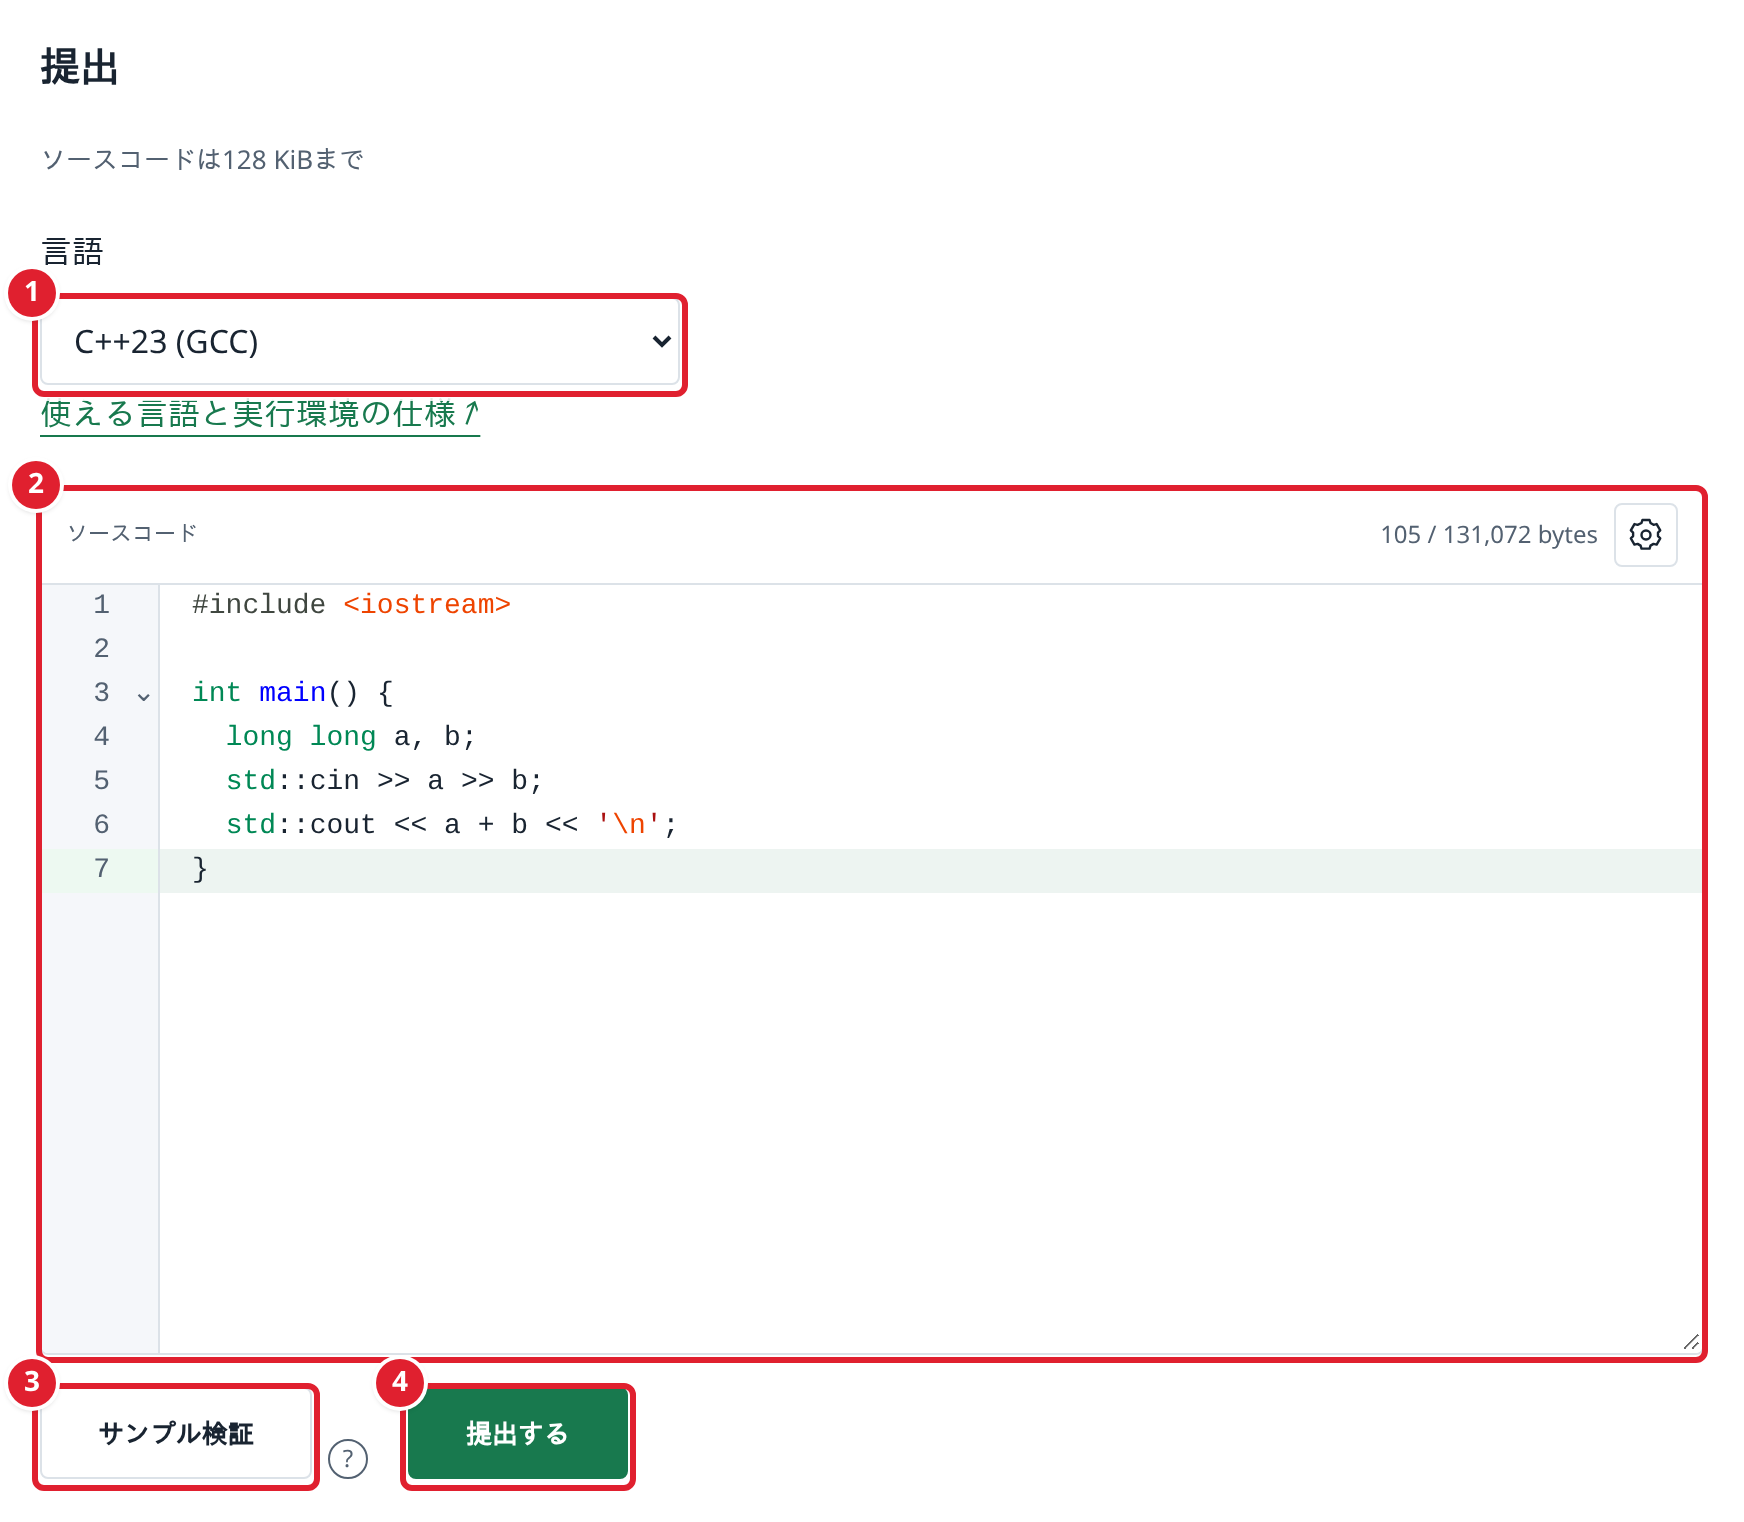
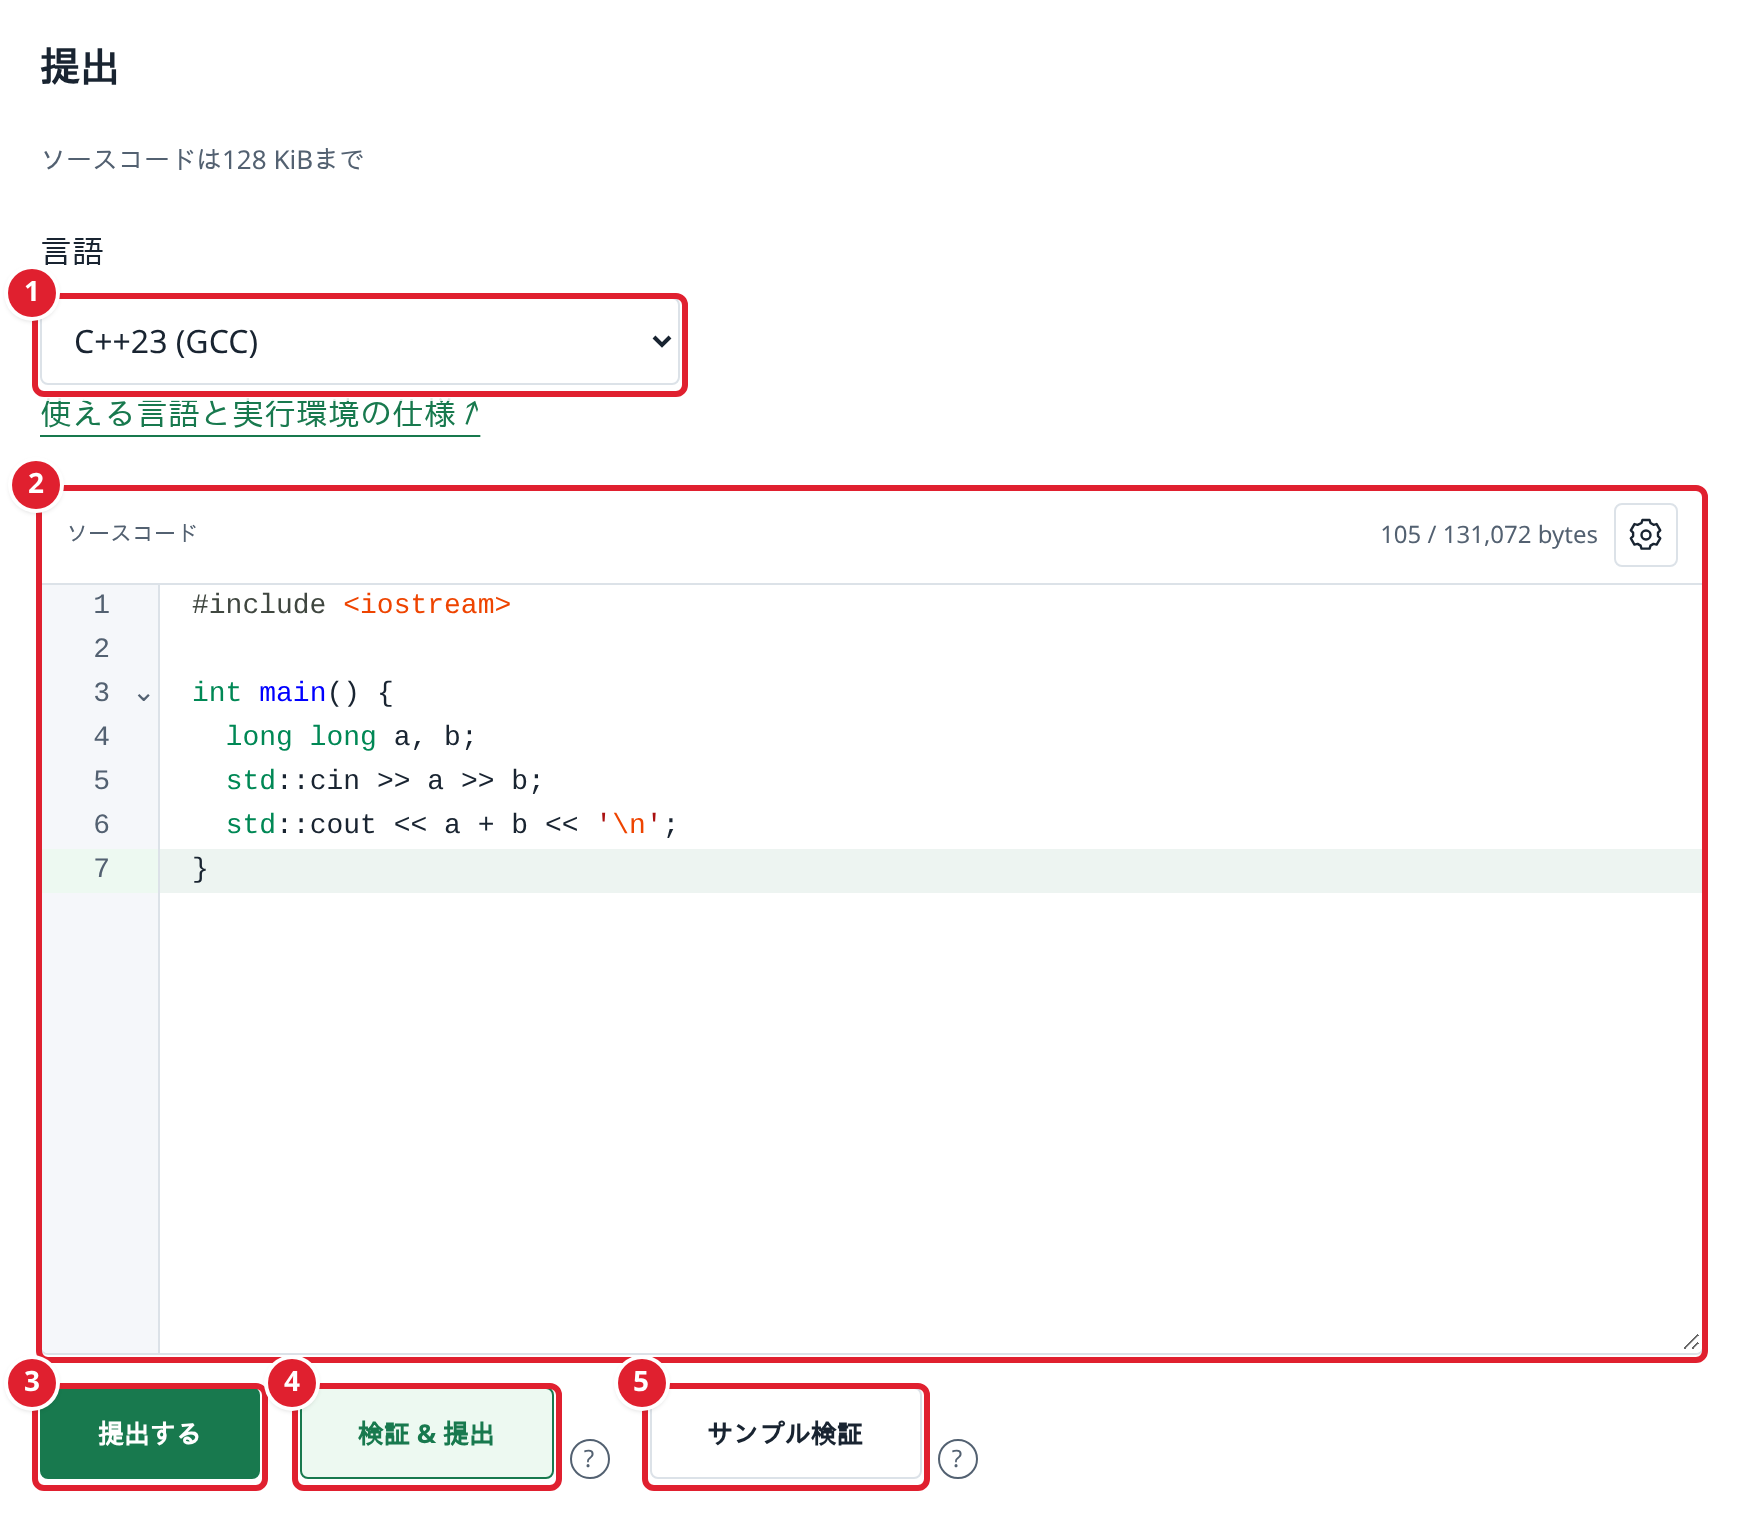
feat: サンプル検証に通ったときだけ続けて提出する「検証 & 提出」ボタンを足す
提出欄のボタンを「提出する」「検証 & 提出」「サンプル検証」の順に並べ、
「検証 & 提出」には説明の「?」を付ける。サンプルケースがない問題では、
検証せずに提出する。

Changed region(s): [[0.0, 0.8955, 0.5573, 0.9882]]

diff --git a/web/app/components/SubmissionForm.vue b/web/app/components/SubmissionForm.vue
@@ -8,6 +8,7 @@ import { hasSource } from '~/utils/has-source'
 const props = defineProps<{ problemId: string, hasSamples: boolean, contestId?: string, team?: boolean, beforeSubmit?: () => Promise<boolean>, disabled?: boolean }>()
 const { user } = useAccount()
 const sampleHelpId = useId()
+const sampleSubmitHelpId = useId()
 const source = ref('')
 // The largest source the API accepts, in UTF-8 bytes.
 const sourceLimit = 131072
@@ -29,19 +30,29 @@ watch(available, items => {
   if (runtime.value && !items.some(item => item.id === runtime.value)) runtime.value = items[0]?.id ?? ''
 }, { immediate: true })
 const sending = ref(false)
+// 'sample-submit' runs the sample validation and submits only when every sample passes.
+// A problem without samples has nothing to validate, so it submits at once.
+type Action = 'submit' | 'sample' | 'sample-submit'
+const action = ref<Action>('submit')
+// The request in flight is a sample validation, not a submission.
 const runningEasyTest = ref(false)
+const blocked = computed(() => props.disabled || sending.value || !hasSource(runtime.value, source.value) || !runtime.value || !available.value.length)
 const message = ref('')
 const easyResult = ref<Submission | null>(null)
 let disposed = false
 onBeforeUnmount(() => { disposed = true })
 watch([source, runtime, () => props.problemId], () => { easyResult.value = null })
-async function submit(easyTest = false) {
-  if ((easyTest && !props.hasSamples) || props.disabled || sending.value || !available.value.some(item => item.id === runtime.value)) return
+function post(easyTest: boolean) {
+  return $fetch<Submission>('/api/my/submissions', { method: 'POST', body: { contestId: props.contestId, problemId: props.problemId, runtime: runtime.value, source: source.value, easyTest: easyTest || undefined } })
+}
+async function submit(requested: Action = 'submit') {
+  if ((requested === 'sample' && !props.hasSamples) || props.disabled || sending.value || !available.value.some(item => item.id === runtime.value)) return
   if (!hasSource(runtime.value, source.value) || new TextEncoder().encode(source.value).length > sourceLimit) {
     message.value = `ソースコードを1〜${sourceLimit.toLocaleString('en-US')}バイトで入力してください。`
     return
   }
-  runningEasyTest.value = easyTest
+  action.value = requested
+  runningEasyTest.value = requested === 'sample' || (requested === 'sample-submit' && props.hasSamples)
   sending.value = true
   message.value = ''
   easyResult.value = null
@@ -50,8 +61,8 @@ async function submit(easyTest = false) {
       message.value = '下書きを保存できませんでした。保存内容を確認してください。'
       return
     }
-    let result = await $fetch<Submission>('/api/my/submissions', { method: 'POST', body: { contestId: props.contestId, problemId: props.problemId, runtime: runtime.value, source: source.value, easyTest: easyTest || undefined } })
-    if (easyTest) {
+    if (runningEasyTest.value) {
+      let result = await post(true)
       easyResult.value = result
       const deadline = Date.now() + 60 * 60 * 1000
       while (!disposed && result.status !== 'DONE') {
@@ -62,12 +73,19 @@ async function submit(easyTest = false) {
         if (disposed) return
         easyResult.value = result
       }
-      return
+      if (disposed || requested === 'sample') return
+      if (result.result?.verdict !== 'AC') {
+        message.value = 'サンプル検証に通らなかったため、提出していません。'
+        return
+      }
+      runningEasyTest.value = false
     }
+    const result = await post(false)
     await navigateTo(props.contestId ? `/contests/${shortId(props.contestId)}/my-submissions/${shortId(result.id)}${props.team ? '?from=team' : ''}` : `/my/submissions/${shortId(result.id)}`)
   } catch (error) {
     const failure = error as { statusCode?: number, data?: { data?: { code?: string, retryAfter?: number } } }
     const code = failure.data?.data?.code
+    const easyTest = runningEasyTest.value
     if (code === 'judge_maintenance') { message.value = judgeMaintenanceMessage; await refreshCatalog() }
     else if (failure.statusCode === 401) message.value = '提出するにはログインしてください。入力したコードはこの画面に残っています。'
     else if (code === 'submission_rate_limited') message.value = failure.data?.data?.retryAfter
@@ -103,14 +121,21 @@ async function submit(easyTest = false) {
       <SourceCodeEditor v-model="source" :runtime="runtime" :limit="sourceLimit" :disabled="sending" />
       <p v-if="message" class="notice notice-error" role="alert">{{ message }}</p>
       <div class="submission-actions">
+        <button class="editor-button primary" type="submit" :disabled="blocked" :aria-busy="sending && action === 'submit'">{{ sending && action === 'submit' ? '提出中…' : '提出する' }}</button>
         <div class="sample-action" :class="{ 'no-samples': !hasSamples }">
-          <button class="editor-button" type="button" :aria-describedby="sampleHelpId" :disabled="!hasSamples || disabled || sending || !hasSource(runtime, source) || !runtime || !available.length" @click="submit(true)">{{ sending && runningEasyTest ? 'サンプル検証中…' : 'サンプル検証' }}</button>
+          <button class="editor-button sample-submit" type="button" :aria-describedby="sampleSubmitHelpId" :disabled="blocked" :aria-busy="sending && action === 'sample-submit'" @click="submit('sample-submit')">{{ sending && action === 'sample-submit' ? (runningEasyTest ? 'サンプル検証中…' : '提出中…') : '検証 & 提出' }}</button>
+          <span class="sample-help">
+            <button class="sample-help-button" type="button" aria-label="検証 & 提出の説明" :aria-describedby="sampleSubmitHelpId">?</button>
+            <span :id="sampleSubmitHelpId" class="sample-tooltip" role="tooltip">{{ hasSamples ? 'サンプル検証に通ったときだけ、続けて提出します。' : 'この問題はサンプルがないため、検証せずに提出します。' }}</span>
+          </span>
+        </div>
+        <div class="sample-action" :class="{ 'no-samples': !hasSamples }">
+          <button class="editor-button" type="button" :aria-describedby="sampleHelpId" :disabled="!hasSamples || blocked" @click="submit('sample')">{{ sending && action === 'sample' ? 'サンプル検証中…' : 'サンプル検証' }}</button>
           <span class="sample-help">
             <button class="sample-help-button" type="button" aria-label="サンプル検証の説明" :aria-describedby="sampleHelpId">?</button>
             <span :id="sampleHelpId" class="sample-tooltip" role="tooltip">{{ hasSamples ? 'サンプルケースを検証する機能です。' : 'この問題は利用可能なサンプルがありません' }}</span>
           </span>
         </div>
-        <button class="editor-button primary" type="submit" :disabled="disabled || sending || !hasSource(runtime, source) || !runtime || !available.length" :aria-busy="sending">{{ sending && !runningEasyTest ? '提出中…' : '提出する' }}</button>
       </div>
     </form>
     <section v-if="easyResult" class="easy-result" aria-labelledby="easy-result-title">
@@ -146,5 +171,12 @@ select:focus-visible { outline: 3px solid var(--color-accent); outline-offset: 3
 select:disabled, .submission-actions button:disabled { opacity: .5; cursor: not-allowed; }
 .submission-actions .editor-button { min-height: 44px; padding: 10px 28px; font-weight: 600; }
 .submission-actions button:disabled { transform: none; text-decoration: none; }
-.submission-actions { display: flex; align-items: center; flex-wrap: wrap; gap: 20px; margin-top: 16px; }
+.submission-actions { position: relative; display: flex; align-items: center; flex-wrap: wrap; gap: 20px; margin-top: 16px; }
+.submission-actions .sample-submit { border-color: var(--color-accent); background: var(--color-accent-soft); color: var(--color-accent); }
+.submission-actions .sample-submit:hover:not(:disabled) { background: color-mix(in oklab, var(--color-accent-soft), var(--color-accent) 12%); }
+/* A phone has no room beside the "?": the explanation spans the row below the buttons instead. */
+@media (max-width: 39.999rem) {
+  .sample-help { position: static; }
+  .sample-tooltip { left: 0; right: 0; transform: none; width: auto; max-width: none; }
+}
 </style>

diff --git a/web/tests/submission.spec.ts b/web/tests/submission.spec.ts
@@ -305,6 +305,66 @@ test('Sample validation polls inline and retains the source for a full submissio
 })
 
 
+for (const verdict of ['AC', 'WA']) {
+  test(`検証 & 提出 ${verdict === 'AC' ? 'submits after the samples pass' : 'keeps a failing solution unsubmitted'}`, async ({ page }) => {
+    await page.route('**/api/my/profile', route => route.fulfill({ json: { profile: { handle: 'alice', avatar: '', version: 1, createdAt: '2026-09-01T00:00:00Z' } } }))
+    await page.route('**/api/auth/me', route => route.fulfill({ json: { user: { id: 'alice' } } }))
+    const item = { id: submissionId, problemId, problemVersion: 2, problemTitle: 'A + B', runtime: 'cpp17', status: 'QUEUED', result: null, createdAt: '2026-09-01T00:00:00Z' }
+    const requests: Record<string, unknown>[] = []
+    await page.route('**/api/my/submissions', async route => {
+      requests.push(route.request().postDataJSON())
+      await route.fulfill({ status: 202, json: { ...item, easyTest: requests.length === 1 } })
+    })
+    await page.route(`**/api/my/submissions/${submissionId}`, route => route.fulfill({ json: { ...item, status: 'DONE', result: { verdict, passed: verdict === 'AC' ? 1 : 0, total: 1, cases: [{ name: 'sample_1', verdict }] } } }))
+    await page.goto(`/problems/${problemId}`)
+    const source = page.getByLabel('ソースコード', { exact: true })
+    await source.fill('int main(){}')
+    const help = page.getByRole('button', { name: '検証 & 提出の説明', exact: true })
+    const tooltip = page.getByRole('tooltip').filter({ hasText: 'サンプル検証に通ったときだけ、続けて提出します。' })
+    await expect(tooltip).toBeHidden()
+    await help.hover()
+    await expect(tooltip).toBeVisible()
+    await expect(page.getByRole('tooltip')).toHaveCount(1)
+    await source.hover()
+    await page.getByRole('button', { name: '検証 & 提出', exact: true }).click()
+    if (verdict === 'AC') {
+      await expect(page).toHaveURL(`/my/submissions/${shortId(submissionId)}`)
+      expect(requests).toEqual([
+        { problemId, runtime: 'cpp23-gcc', source: 'int main(){}', easyTest: true },
+        { problemId, runtime: 'cpp23-gcc', source: 'int main(){}' },
+      ])
+      return
+    }
+    await expect(page.getByRole('region', { name: '提出', exact: true }).getByRole('alert')).toHaveText('サンプル検証に通らなかったため、提出していません。')
+    await expect(page.getByText('sample_1: WA', { exact: true })).toBeVisible()
+    await expect(page).toHaveURL(`/problems/${shortId(problemId)}`)
+    await expect(source).toHaveText('int main(){}')
+    await expect(page.getByRole('button', { name: '検証 & 提出', exact: true })).toBeEnabled()
+    expect(requests).toEqual([{ problemId, runtime: 'cpp23-gcc', source: 'int main(){}', easyTest: true }])
+  })
+}
+
+test('検証 & 提出 submits at once when the problem has no samples', async ({ page }) => {
+  await page.route('**/api/my/profile', route => route.fulfill({ json: { profile: { handle: 'alice', avatar: '', version: 1, createdAt: '2026-09-01T00:00:00Z' } } }))
+  await page.route('**/api/auth/me', route => route.fulfill({ json: { user: { id: 'alice' } } }))
+  await page.route(`**/api/problems/${problemId}`, async route => {
+    const response = await route.fetch()
+    await route.fulfill({ json: { ...await response.json(), hasSamples: false } })
+  })
+  const requests: Record<string, unknown>[] = []
+  await page.route('**/api/my/submissions', async route => {
+    requests.push(route.request().postDataJSON())
+    await route.fulfill({ status: 202, json: { id: submissionId, problemId, problemVersion: 2, problemTitle: 'A + B', runtime: 'cpp17', status: 'QUEUED', result: null, createdAt: '2026-09-01T00:00:00Z' } })
+  })
+  await page.goto('/problems')
+  await page.locator(`a[href="/problems/${shortId(problemId)}"]`).first().click()
+  await page.getByLabel('ソースコード', { exact: true }).fill('int main(){}')
+  await page.getByRole('button', { name: '検証 & 提出', exact: true }).click()
+  await expect(page).toHaveURL(`/my/submissions/${shortId(submissionId)}`)
+  expect(requests).toEqual([{ problemId, runtime: 'cpp23-gcc', source: 'int main(){}' }])
+})
+
+
 test('Sample validation detail displays empty and truncated output safely', async ({ page }) => {
   await page.route('**/api/auth/me', route => route.fulfill({ json: { user: { id: 'alice' } } }))
   await page.route('**/api/my/profile', route => route.fulfill({ json: { profile: { handle: 'alice', avatar: '', version: 1, createdAt: '2026-09-01T00:00:00Z' } } }))
@@ -445,6 +505,11 @@ for (const scope of ['problem', 'contest']) {
     if (scope === 'contest') await expect(page.locator('.contest-participation')).toHaveCount(0)
     const sample = page.getByRole('button', { name: 'サンプル検証', exact: true })
     await expect(sample).toBeDisabled()
+    const sampleSubmit = page.getByRole('button', { name: '検証 & 提出', exact: true })
+    await expect(sampleSubmit).toBeEnabled()
+    await sampleSubmit.hover()
+    await expect(page.getByRole('tooltip')).toHaveText('この問題はサンプルがないため、検証せずに提出します。')
+    await page.getByLabel('ソースコード', { exact: true }).hover()
     await expect(page.getByRole('button', { name: '提出する', exact: true })).toBeEnabled()
     await sample.hover()
     await expect(page.getByRole('tooltip')).toHaveText('この問題は利用可能なサンプルがありません')

diff --git a/web/docs-screenshots/guides.spec.ts b/web/docs-screenshots/guides.spec.ts
@@ -156,8 +156,9 @@ test('submission form', async ({ page }) => {
   await annotate(page, [
     form.locator('#submission-language'),
     { target: page.getByLabel('ソースコード', { exact: true }).locator('xpath=ancestor::*[contains(@class, "source-editor") or contains(@class, "code-editor")][1]'), pad: 2 },
-    form.getByRole('button', { name: 'サンプル検証', exact: true }),
     form.getByRole('button', { name: '提出する', exact: true }),
+    form.getByRole('button', { name: '検証 & 提出', exact: true }),
+    form.getByRole('button', { name: 'サンプル検証', exact: true }),
   ])
   await shoot(page, 'submit-form', [form])
 })

diff --git a/web/app/content/docs/submissions.md b/web/app/content/docs/submissions.md
@@ -1,10 +1,10 @@
 ## 解答を提出する {#submit}
 
-![問題ページの提出欄。①言語、②ソースコード、③サンプル検証、④提出する](/images/docs/submit-form.png)
+![問題ページの提出欄。①言語、②ソースコード、③提出する、④検証 & 提出、⑤サンプル検証](/images/docs/submit-form.png)
 
 1. ①で言語を選びます。
 2. ②にソースコードを入力します。
-3. ④「提出する」を押します。
+3. ③「提出する」を押します。
 
 - 提出にはログインとプロフィールの登録が必要です。
 - 提出すると提出結果の画面に移り、採点が終わるまで結果を自動で更新します。
@@ -20,11 +20,17 @@
 
 ## サンプル検証 {#sample-check}
 
-提出欄の③「サンプル検証」は提出する前にサンプルケースだけで判定します。
+提出欄の⑤「サンプル検証」は提出する前にサンプルケースだけで判定します。
 
 - 使うのは、作問者がサンプルケースに指定したテストケースです。問題文に書かれた入出力例は使いません。
 - 結果は提出欄の下に、ケースごとの入力、期待される出力、実際の出力として表示します。
 - 結果は本人だけが見られ、提出一覧や順位には入りません。
+
+④「検証 & 提出」は、サンプル検証の結果が:AC:のときだけ、続けて提出します。
+
+- :AC:でなければ提出せず、サンプル検証の結果を表示します。
+- サンプルケースがない問題では、検証せずに提出します。
+- 続けて使える回数は、サンプル検証と提出の両方で1回ずつ数えます。
 
 ## コード実行 {#code-run}
 
